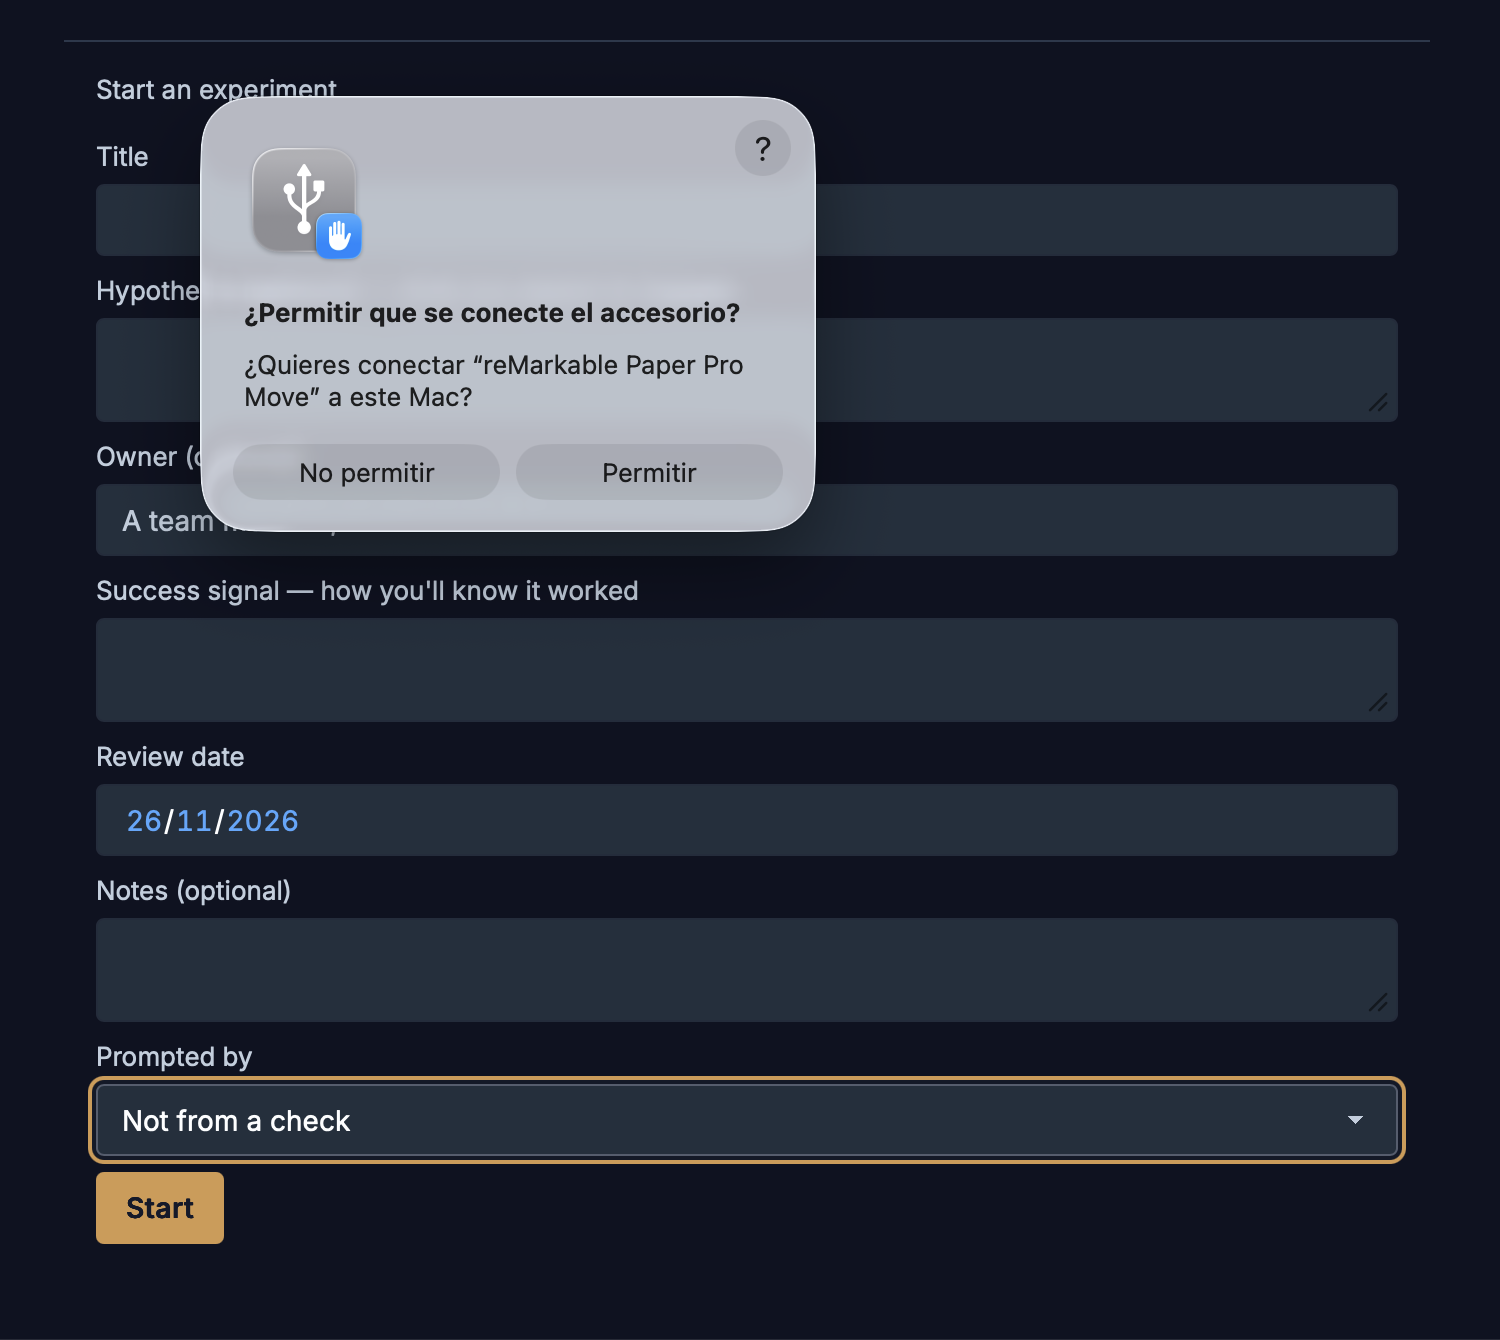
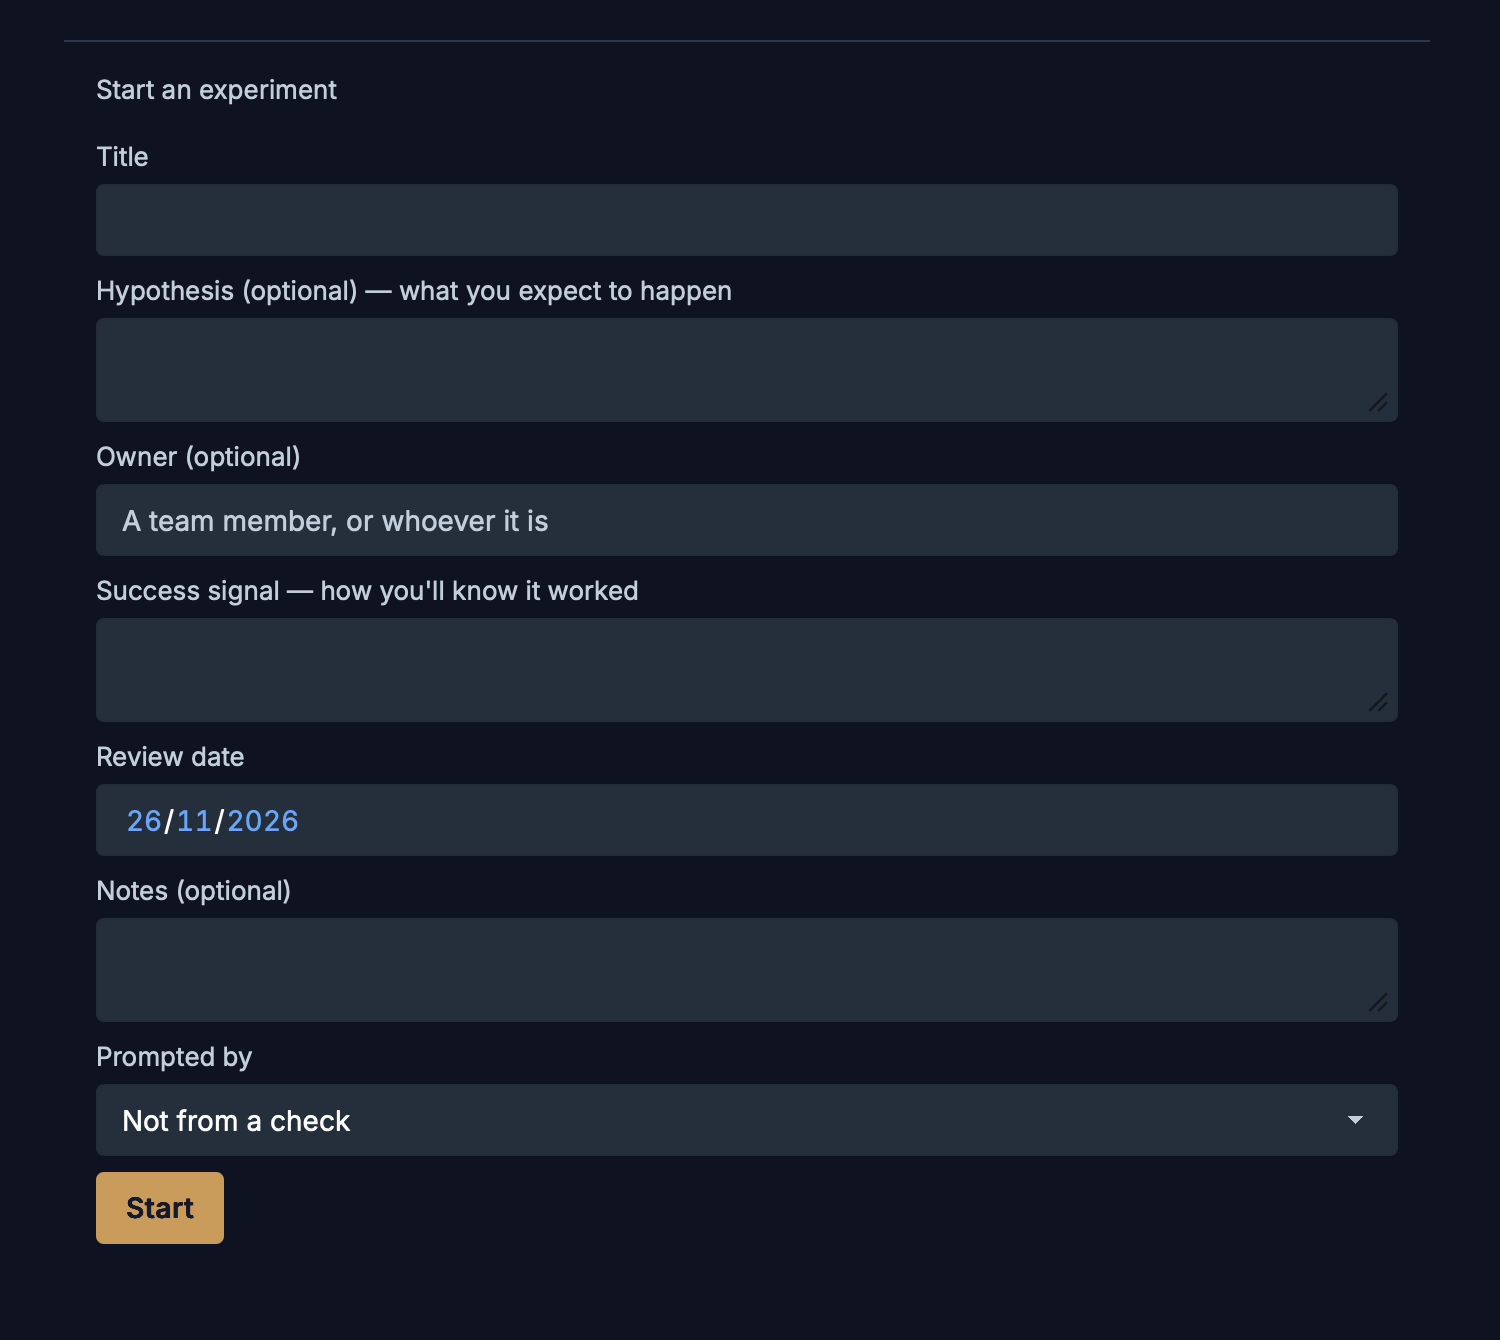
docs(trustline): retake experiment form without a system dialog
The experiment-form screenshot captured a macOS accessory prompt that
named a personal device. Retaken from a window-only capture. The
working-agreements shot now shows the whole agreement text. The shot
list records the dark theme and window-only capture actually used.

Changed region(s): [[0.1227, 0.0612, 0.552, 0.3978], [0.0613, 0.7955, 0.9507, 0.8873]]

diff --git a/assets/images/trustline/docs/SHOTLIST.md b/assets/images/trustline/docs/SHOTLIST.md
@@ -5,7 +5,7 @@ Drives step 2 (capture). Each row is one image referenced from `tools/trustline/
 ## Setup
 
 1. Seed isolated demo data: `python3 trustline/scripts/seed-demo-data.py <fake-home>`, then launch the Trustline binary with `HOME=<fake-home>` so `dirs::data_dir()` resolves into it. Every name is invented and every address is under `example.com`; never capture real data.
-2. Window: the default 1100 x 720 minimum is too tight for tall panels. Use one size for every shot (suggested 1280 x 800, same as the existing Threadline set), the macOS build, and **Light** theme unless the row says otherwise.
+2. Window: the app's default 1100 x 720 (Retina, 2200 x 1440 px), the macOS build, **Dark** theme unless the row says otherwise (shot 1 is Light, to contrast with shot 3). Capture the Trustline window only (`screencapture -o -x -l <windowID>`), never a screen region, so system dialogs cannot leak in.
 3. Rows marked "throwaway" delete or change data. Run them in a second seeded copy, or re-seed afterwards (the seed script wipes and rewrites the folder).
 4. Avoid real paths, user names and e-mail addresses in any visible field. Use the fake-home path and `example.com`.
 5. Seeded dates are in 2026; "due" and "overdue" banners depend on the capture date and are fine as they appear.
@@ -16,7 +16,7 @@ Drives step 2 (capture). Each row is one image referenced from `tools/trustline/
 | # | File | Screen / area | App state to capture |
 |---|---|---|---|
 | 1 | `Trustline-Shell-direct-reports-overview.png` | Whole window, Direct reports | Seeded data, Light theme. Direct reports section, Mara Lindqvist selected, session 2026-09-29 (scheduled) showing: header, Send agenda, Action items, Agenda. Full window including activity bar. |
-| 2 | `Trustline-Start-first-launch-empty.png` | Direct reports, clean install | Fresh data folder (do NOT seed). Direct reports section selected, roster empty, main pane shows the 'Select a direct report on the left, or add your first one...' empty state. Light theme. |
+| 2 | `Trustline-Start-first-launch-empty.png` | Direct reports, clean install | Fresh data folder (do NOT seed). Direct reports section selected, roster empty, main pane shows the 'Select a direct report on the left, or add your first one...' empty state. Dark theme. |
 | 3 | `Trustline-Start-dark-theme.png` | Direct reports, dark theme | Seeded data. Preferences > Appearance > Base color scheme = Dark. Direct reports section, Mara Lindqvist selected, her 2026-09-29 scheduled session visible. Close Preferences before capturing. |
 | 4 | `Trustline-Reports-roster-and-header.png` | Direct reports, report header | Seeded. Mara Lindqvist selected. Capture sidebar roster (all five names with role and cadence) plus the report header (avatar, role/level/trust/cadence line, email, Edit / Export this report's data / Delete report buttons). Crop to header + roster, not the whole session. |
 | 5 | `Trustline-Reports-add-report-form.png` | Direct reports sidebar, Add report | Seeded. 'Add report' disclosure open, form empty, 'Position on your career path' drop-down OPEN showing the four positions with trust tiers. Capture the sidebar (and drop-down). |
@@ -56,7 +56,7 @@ Drives step 2 (capture). Each row is one image referenced from `tools/trustline/
 | 39 | `Trustline-Teams-interactions.png` | Interactions tab | Seeded. Teams > Checkout Experience, Interactions tab: the one record with Payments Platform, X-as-a-Service, notes and review date, with Edit / Delete; the hint line above it. |
 | 40 | `Trustline-TeamPage-export-menu.png` | Export team page menu | Seeded. Payments Platform header, 'Export team page...' pressed: menu OPEN with both checkboxes UNTICKED ('Include latest health scores', 'Include career path') and the Export... button. Crop to the header area. |
 | 41 | `Trustline-TeamPage-exported-markdown.png` | Exported file in a text editor | Seeded. Run the export for Payments Platform with BOTH boxes ticked, then open the resulting 'Payments Platform.md' in a plain text editor (not rendered preview). Capture the top: title, purpose, Members, Decisions, Team topology; make sure the window shows enough to read. |
-| 42 | `Trustline-Preferences-appearance.png` | Preferences > Appearance | Seeded. Preferences open on Appearance, with both selectors visible ('Base color scheme' = Adapt to system, 'PDF export theme' = Paper (light)). |
+| 42 | `Trustline-Preferences-appearance.png` | Preferences > Appearance | Seeded. Preferences open on Appearance, with both selectors visible ('Base color scheme' = Dark, 'PDF export theme' = Paper (light)). |
 | 43 | `Trustline-Preferences-data-location.png` | Preferences > Data, top | Seeded. Preferences > Data, top of the page: 'Currently storing data at' (show a neutral path such as the fake-home path, not a personal one), Custom location field empty, Save / Reset to default. |
 | 44 | `Trustline-Preferences-trash.png` | Preferences > Data, Trash | Throwaway seeded copy: delete Noor Haddadi first, then Preferences > Data scrolled to Trash: one entry with 'N days until it is erased', Restore and Delete forever, plus the red Empty trash button. |
 | 45 | `Trustline-Preferences-shared-career-path.png` | Preferences > Data, Shared career path | Seeded. Preferences > Data scrolled to 'Shared career path': explanatory text, the current location, Custom location field, Save / Reset to default and the writer-label line. Neutral paths only. |
